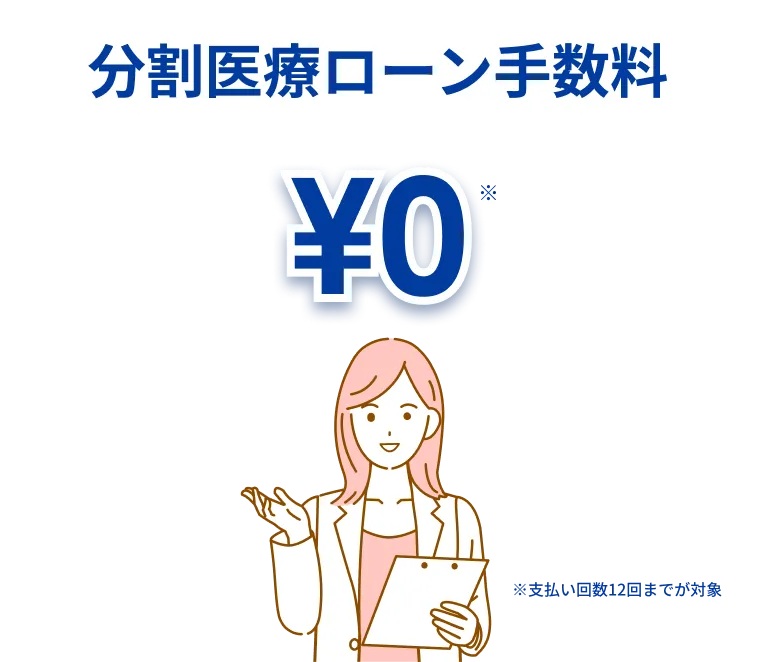
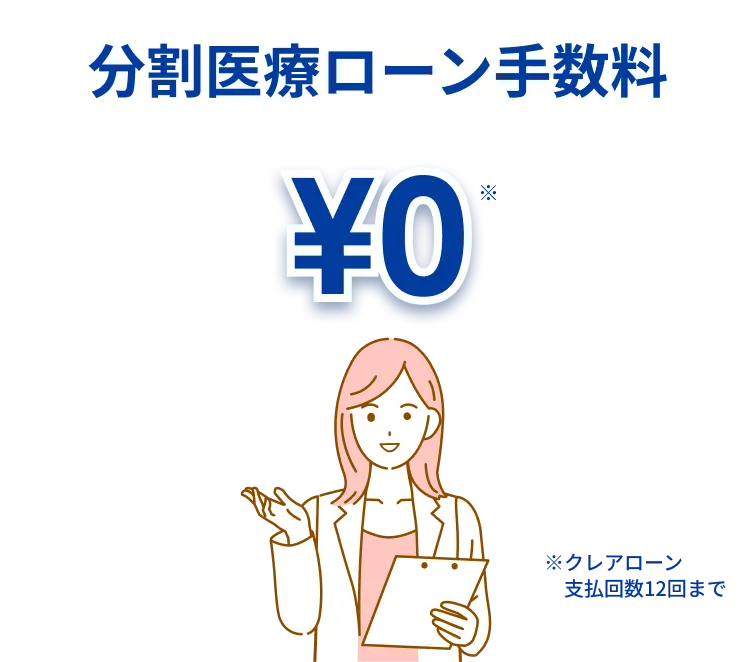
テキスト、画像修正

diff --git a/index.html b/index.html
@@ -509,7 +509,6 @@
               <li class="l-monitor__feature-item">コース解約OK!<span class="l-monitor__feature-item-comment">※2</span></li>
             </ul>
             <div class="l-monitor__cta-button js-bounce"><a href="https://clair-artmake.com/counsel/?lpselect=fixer_fa01" class="c-curves-button c-curves-button--monitor">今すぐ無料カウンセリング</a></div>
-            <p class="l-monitor__feature-annotation">※モニターの場合、プライバシーを配慮し<br>お客様のお顔はお出しいたしません。</p>
             <p class="l-monitor__feature-small-annotation">※1  医療ローンでご契約の方<br>※2  色素の入りが悪いなどの場合に限り、無料で再施術しております。</p>
           </div>
         </div>
@@ -786,7 +785,6 @@
               <li class="l-monitor__feature-item">コース解約OK!<span class="l-monitor__feature-item-comment">※2</span></li>
             </ul>
             <div class="l-monitor__cta-button js-bounce"><a href="https://clair-artmake.com/counsel/?lpselect=fixer_fa01" class="c-curves-button c-curves-button--monitor">今すぐ無料カウンセリング</a></div>
-            <p class="l-monitor__feature-annotation">※モニターの場合、プライバシーを配慮し<br>お客様のお顔はお出しいたしません。</p>
             <p class="l-monitor__feature-small-annotation">※1  医療ローンでご契約の方<br>※2  色素の入りが悪いなどの場合に限り、無料で再施術しております。</p>
           </div>
         </div>
@@ -796,7 +794,7 @@
         <figure><img src="images/price-table.webp" alt=""></figure>
         <div class="l-price-_desc-wrapper">
           <p class="l-price__text">まとまったお金がなくても安心！</p>
-          <figure><img src="images/price-desc-top.webp" alt="分割医療ローン手数料0円 ※支払い回数12回までが対象"></figure>
+          <figure><img src="images/price-desc-top.webp" alt="分割医療ローン手数料0円 ※クレアローン支払い回数12回までが対象"></figure>
           <figure class="l-price__desc-image"><img src="images/price-desc.webp" alt="医療ローンって？ 患者様に合わせて、月々のお支払い額と回数が選べるお支払い方法です。お支払い回数が3~60回まで選べ、ご一括でのお支払いが難しい方も 無理のない範囲でご契約が出来ます。/ライフスタイルに応じてシミュレーションをお出しすることもできますのでお気軽にお申し付けください。"></figure>
         </div>
       </section>
@@ -931,7 +929,7 @@
         </div>
         <div class="l-artist__desc-wrapper">
           <div class="l-artist__desc" id="artist-1">
-            <p class="l-artist__name">Maki Nakashima</p>
+            <p class="l-artist__name">ASAKI NAKAJIMA</p>
             <p class="l-artist__name-ja">中島 麻貴</p>
             <ul class="l-artist__skill">
               <li class="l-artist__skill-item">FIXER頭皮アートメイク</li>
@@ -1029,7 +1027,7 @@
           <summary class="l-faq__summary"><p class="l-faq__summary-q">Q</p>カラーリングは出来ますか?</summary>
           <div class="l-faq__answer">
             <span class="l-faq__answer-a">A</span>
-            <p>施術から2週間後に可能となります。</p>
+            <p>施術から1週間後に可能となります。</p>
           </div>
         </details>
         <details class="l-faq__accordion" name="faq">
@@ -1038,7 +1036,6 @@
             <span class="l-faq__answer-a">A</span>
             <div class="l-faq__answer-gap">
               <p>髪の毛が自然に増えていくことを目的とした施術となりますので、眉毛のアートメイクと違い、デザインが気に入らないので消したいといったご要望はないかと思います。</p>
-              <p>入れ墨と違い、時間の経過で消退していきますが、どうしても消されたい場合は、除去剤で消すことが可能です。</p>
             </div>
           </div>
         </details>

diff --git a/css/style.css b/css/style.css
@@ -2196,7 +2196,7 @@ summary::-webkit-details-marker {
 }
 
 .l-price__desc-image {
-  margin-block-start: -30px;
+  margin-block-start: -40px;
 }
 
 .l-price {
